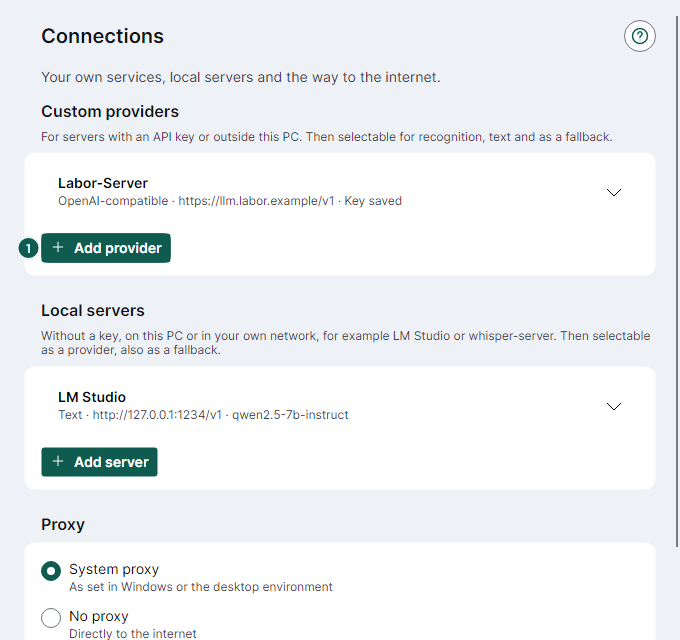
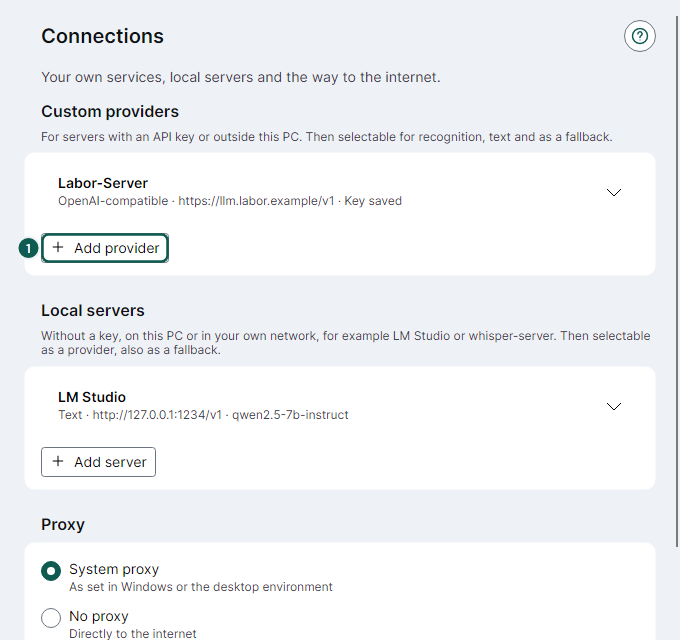
docs(ux): Designsystem und Hilfe-Bilder zum Stand UX-6
Claude-Session: https://claude.ai/code/session_011qRtEhqiV9FgPGfKD98Zeh

Changed region(s): [[0.0618, 0.3438, 0.2779, 0.4062], [0.0618, 0.6875, 0.2471, 0.75]]

diff --git a/docs/design-system.md b/docs/design-system.md
@@ -48,6 +48,10 @@ Quelle: Loom-Palette der Android-App (`ui/theme/Color.kt`, `LoomPalette`). Dunke
 | `Loom.Focus` | `#6FD9C7` | `#0F5B50` | `#FFFF00` | Fokusring 2 px |
 | `Loom.Record` | `#FF4D4D` | `#B3261E` | `#FF6B6B` | Aufnahme-Symbol (nur Symbol, nie Fläche) |
 | `Loom.Tile.*` | Container-Töne | gleich | gleich | Symbol-Kacheln (weiße Glyphe) |
+| `Loom.HoverTint` / `Loom.PressedTint` | `#14808080` / `#28808080` | gleich | gleich | Hover/Gedrückt auf neutralen Flächen (halbtransparent) |
+| `Loom.Shadow.Float` | `0 4 14 0 #40000000` | gleich | gleich | Schatten schwebender Fenster (`Border.float`) |
+
+Außerhalb von `Tokens.axaml` steht keine Hex-Farbe in Ansichten und Styles (`UxRawColorTest`; einzige Ausnahme der Fluent-Akzent in `App.axaml`).
 
 Kontrast, geprüft von `DesignTokensTest` (WCAG 2.x, relative Leuchtdichte): Text auf Fläche ≥ 4,5:1, im Hochkontrast ≥ 7:1;
 Outline, Fokus, Akzentfläche, Warn- und Aufnahme-Symbol ≥ 3:1.
@@ -93,6 +97,8 @@ Regeln:
 - **Sofort speichern**: Auswahl und Schalter speichern bei Änderung, Textfelder beim Verlassen bzw. Enter (`UpdateSourceTrigger=LostFocus`). Ungültige Werte zeigen den Fehler in der Zeile und werden nicht gespeichert. Zerstörende Änderungen (Verlauf aus) fragen inline nach.
 - **Knöpfe**: ein Hauptknopf je Bereich (`accent`), Nebenaktionen als `secondary` oder Textknopf (`text`), Zerstörendes als `text danger` mit Gegenstand im Namen („Profil ‚Terminal‘ löschen“). Symbolknöpfe `icon` (32 × 32) nur mit Namen.
 - **Rückgängig statt Rückfrage**, wo es geht: Statuszeile „… gelöscht.“ mit Textknopf „Rückgängig“, gilt bis zur nächsten Aktion (kein Timer, kein Stapel); der Fokus springt auf „Rückgängig“. Nicht umkehrbar (Anbieter samt Key, Verlauf) fragt inline nach.
+- **Hinweise über fremden Programmen**: Stufe, „Kopiert“ und Auskünfte verschwinden nach kurzer Zeit; Warnungen und Fehler (nicht eingefügt, Grenze erreicht, Diktat gescheitert) bleiben stehen, bis „Hinweis schließen“ oder das nächste Diktat sie wegnimmt (UX-6).
+- **Texte**: Meldungen sagen, was zu tun ist – ohne „bitte“, „ungültig“ oder „klicken“ (`UxWritingTest`, Ausnahme D9).
 - **Nur zeigen, was gilt**: abhängige Zeilen erscheinen erst mit ihrer Voraussetzung (z. B. Proxy-Adresse nur bei „Eigener Proxy“).
 - **Hover und Gedrückt** auf Akzent- und Auswahlflächen sind einen Ton abgesetzt; Schrift darauf bleibt ≥ 4,5:1 (`DesignTokensTest`).
 - **Texte** nur über `Localization/*.json` (DE+EN), Schlüssel-Präfixe: `Page_`, `Section_`, `G_` (Gruppe), `Set_` (Zeile), `Validation_`, `Managed_`.
